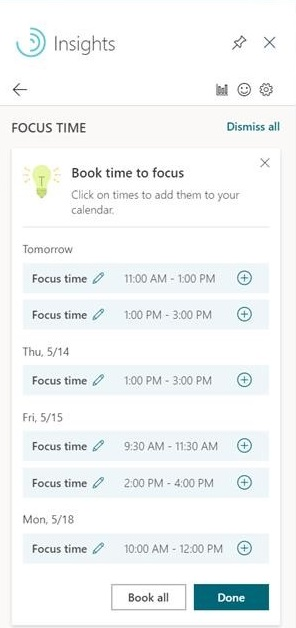
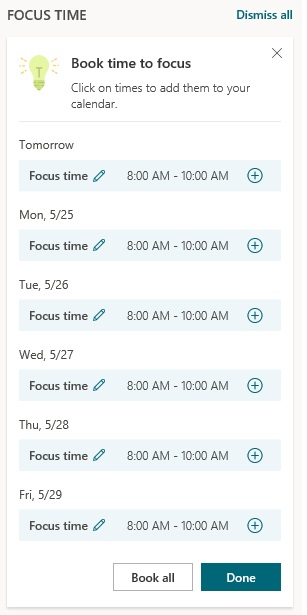
new images

diff --git a/WorkplaceAnalytics/MyAnalytics/Use/addin-new.md b/WorkplaceAnalytics/MyAnalytics/Use/addin-new.md
@@ -316,7 +316,7 @@ The **Book time to focus** card can help you protect time for focused work and a
 
  * In the **Insights** pane, select the **Book time to focus** card. This card appears if you have time available on your calendar during your working hours which is not blocked by meetings or appointments. 
 
-   ![Book time to focus](../../images/mya/use/book-time-to-focus.png)     
+   ![Book time to focus](../../images/mya/use/book-time-to-focus-52.png)     
      
    This opens a panel that displays all the time available to focus in the coming week, with a couple of available slots every day. With one click you can add focus time to your calendar and get ready for distraction-free deep work. You can also book all available time for focused work with one click, thus setting you up for focused work over a longer duration. 
 
@@ -339,11 +339,11 @@ It is easy for important emails to get lost when your inbox is full of unread em
 
  * In the **Insights** pane, select the **Catch up on email** card which captures your important unread email based on last 14 days of email communication.
 
-   ![Catch up on email](../../images/mya/use/catch-up-on-email.png) 
+   ![Catch up on email](../../images/mya/use/catch-up-on-email-54.png) 
  
    This opens a panel that displays insights cards for each of your important unread emails: 
 
-   ![Unread important email](../../images/mya/use/unread-important-email.png)  
+   ![Unread important email](../../images/mya/use/unread-important-email-54.png)  
 
 #### Insight option details
 
@@ -362,11 +362,11 @@ Searching for that document you had planned to read but can’t find anymore? Wi
 
  * In the **Insights** pane, select the **Catch up on documents** card:
 
-   ![Catch up on documents](../../images/mya/use/catch-up-on-documents.png) 
+   ![Catch up on documents](../../images/mya/use/catch-up-on-documents-54.png) 
  
    This opens a panel that displays insights cards for each document shared with you in the last 14 days that you have not yet opened. 
 
-   ![Unread shared documents](../../images/mya/use/unread-shared-documents.png)
+   ![Unread shared documents](../../images/mya/use/unread-shared-documents-54.png)
 
    ![Choose an open time slot](../../images/mya/use/choose-open-time.png)   
 
@@ -388,11 +388,11 @@ On a regular day, you might have unread emails and outstanding tasks from many p
 
  * In the **Insights** pane, select the **Add important people** card:
 
-    ![Add important people](../../images/mya/use/add-important-people.png)  
+    ![Add important people](../../images/mya/use/add-important-people-54.png)  
 
     This opens a panel with suggestions to mark a recommended contact as important:
 
-    ![Important people](../../images/mya/use/important-people.png)  
+    ![Important people](../../images/mya/use/important-people-54.png)  
 
 
 #### Insight option details
